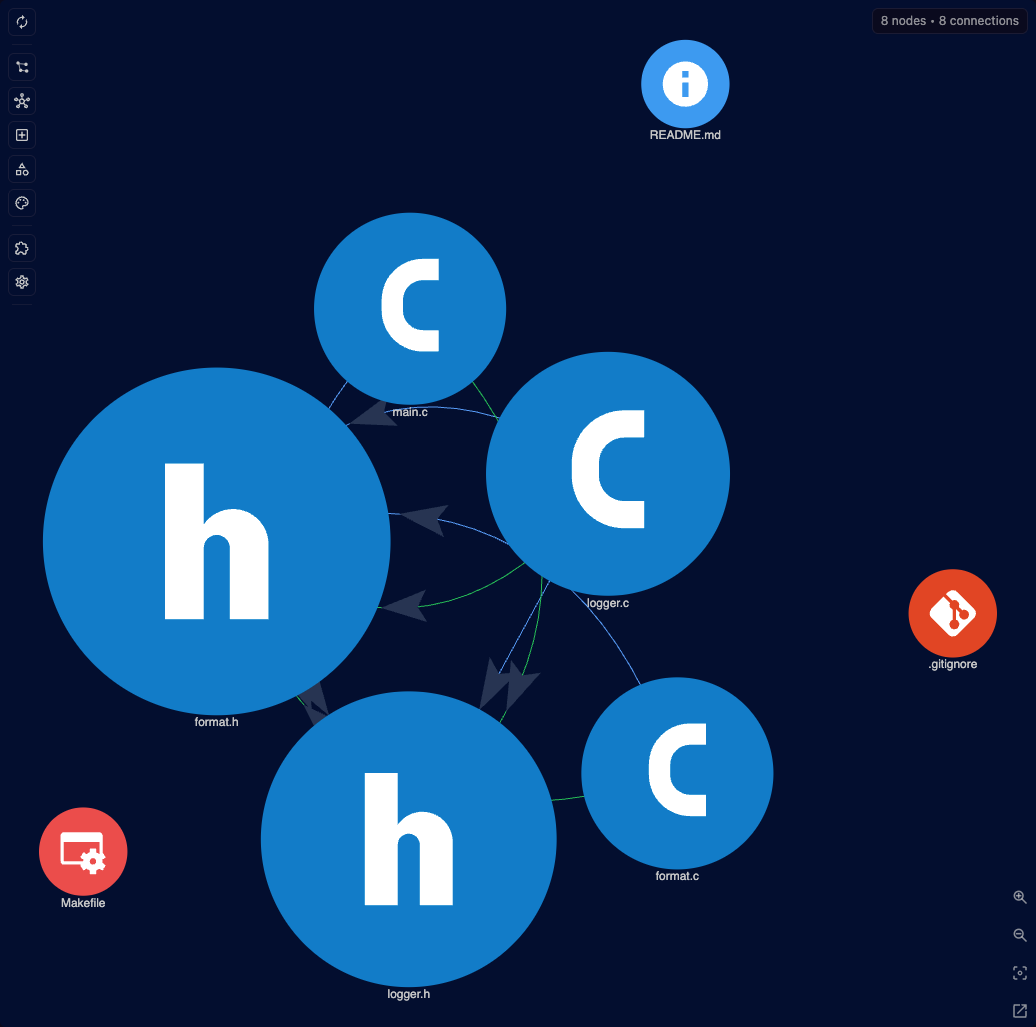
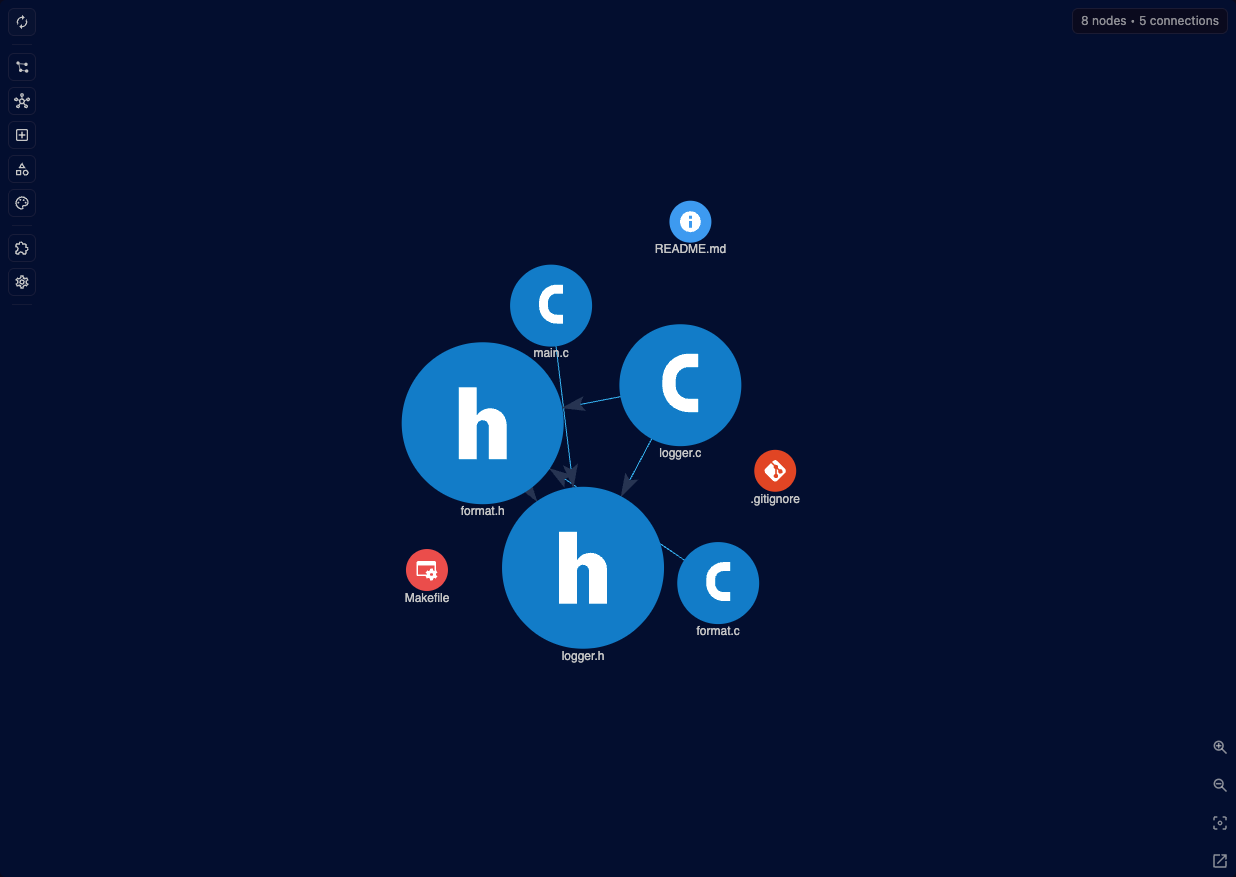
test: align C acceptance with include graph

diff --git a/packages/extension/tests/acceptance/specs/c-example.md b/packages/extension/tests/acceptance/specs/c-example.md
@@ -12,7 +12,7 @@ And the graph nodes match the expected files in the examples/example-c workspace
 
 When I click the Graph Scope button
 And I select edge types
-Then the available edge types are Include, References, Calls, Nests, Contains
+Then the available edge types are Include, References, Calls, Contains
 And I close the Graph Scope
 
 When I toggle the Include edge on
@@ -51,7 +51,7 @@ Then I can see there are 15 nodes and 7 connections
 And src/main.c points to src/main.c#main:function
 
 When I toggle the Calls edge on
-Then I can see there are 15 nodes and 8 connections
+Then I can see there are 15 nodes and 11 connections
 And src/logger/logger.c#logger_write:function points to src/logger/logger.c#logger_accepts:function
 
 When I toggle the Prototype node on
@@ -60,7 +60,8 @@ And src/logger/logger.c#logger_write:function points to src/logger/format.h#logg
 And src/main.c#main:function points to src/logger/logger.h#logger_init:prototype
 And src/logger/format.c#logger_format_line:function points to src/logger/format.h#logger_level_name:prototype
 
-Then I show only the Include node type
+Then I show only the Contains edge type
+Then I show only the File and Include node types
 Then I can see there are 15 nodes and 7 connections
 And src/main.c points to src/main.c#logger/logger.h:include
 
@@ -68,22 +69,23 @@ When I toggle the Include edge on
 Then I can see there are 15 nodes and 12 connections
 And src/main.c#logger/logger.h:include points to src/logger/logger.h
 
-Then I show only the Struct node type
+Then I show only the Contains edge type
+Then I show only the File and Struct node types
 Then I can see there are 10 nodes and 2 connections
 
-Then I show only the Union node type
+Then I show only the File and Union node types
 Then I can see there are 9 nodes and 1 connection
 
-Then I show only the Enum node type
+Then I show only the File and Enum node types
 Then I can see there are 9 nodes and 1 connection
 
-Then I show only the Typedef node type
+Then I show only the File and Typedef node types
 Then I can see there are 12 nodes and 4 connections
 
-Then I show only the Global node type
+Then I show only the File and Global node types
 Then I can see there are 9 nodes and 1 connection
 
-Then I show only the Include, Function, Prototype, Struct, Union, Enum, Typedef and Global node types
+Then I show only the File, Include, Function, Prototype, Struct, Union, Enum, Typedef and Global node types
 And I toggle the Include edge on
 And I toggle the Contains edge on
 And I toggle the Calls edge on